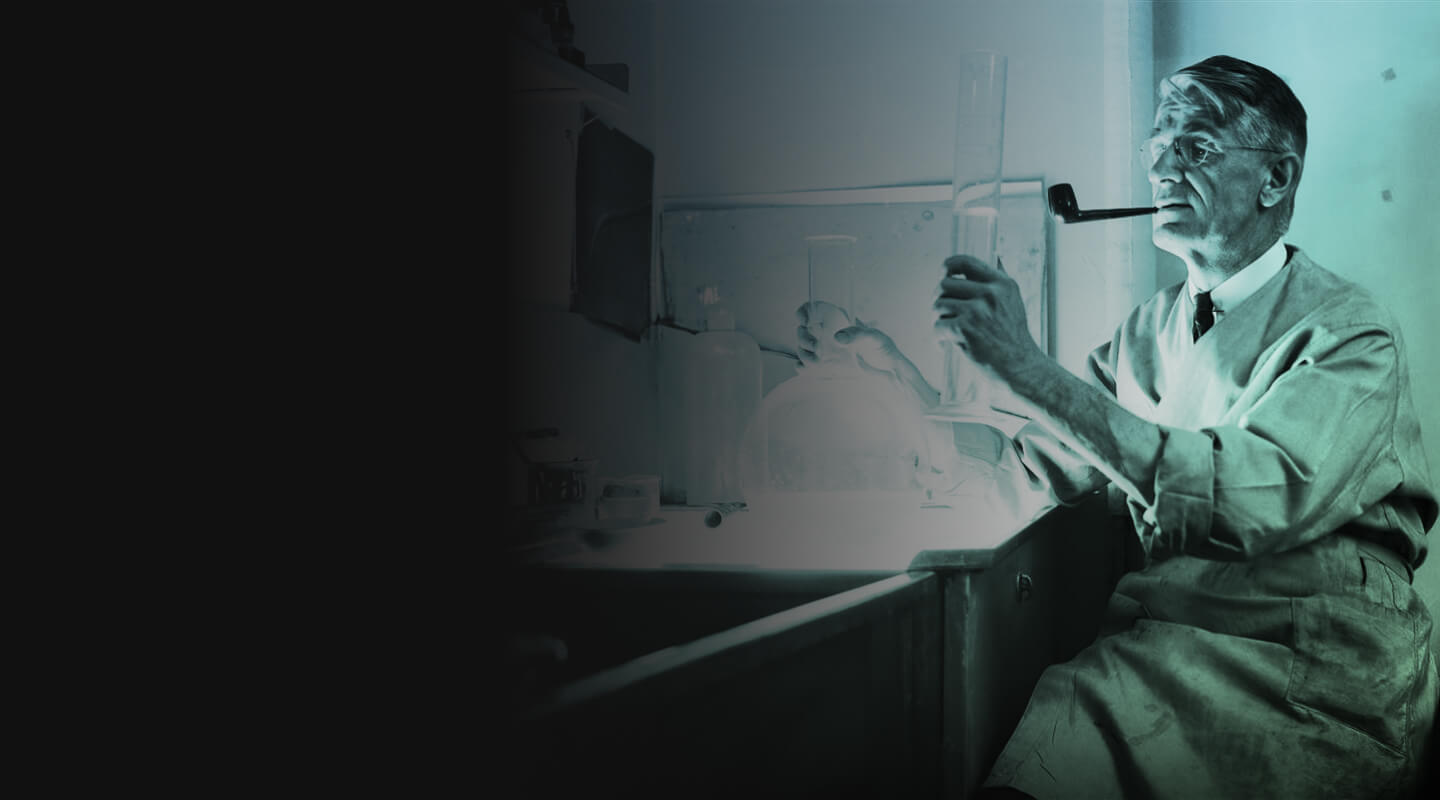
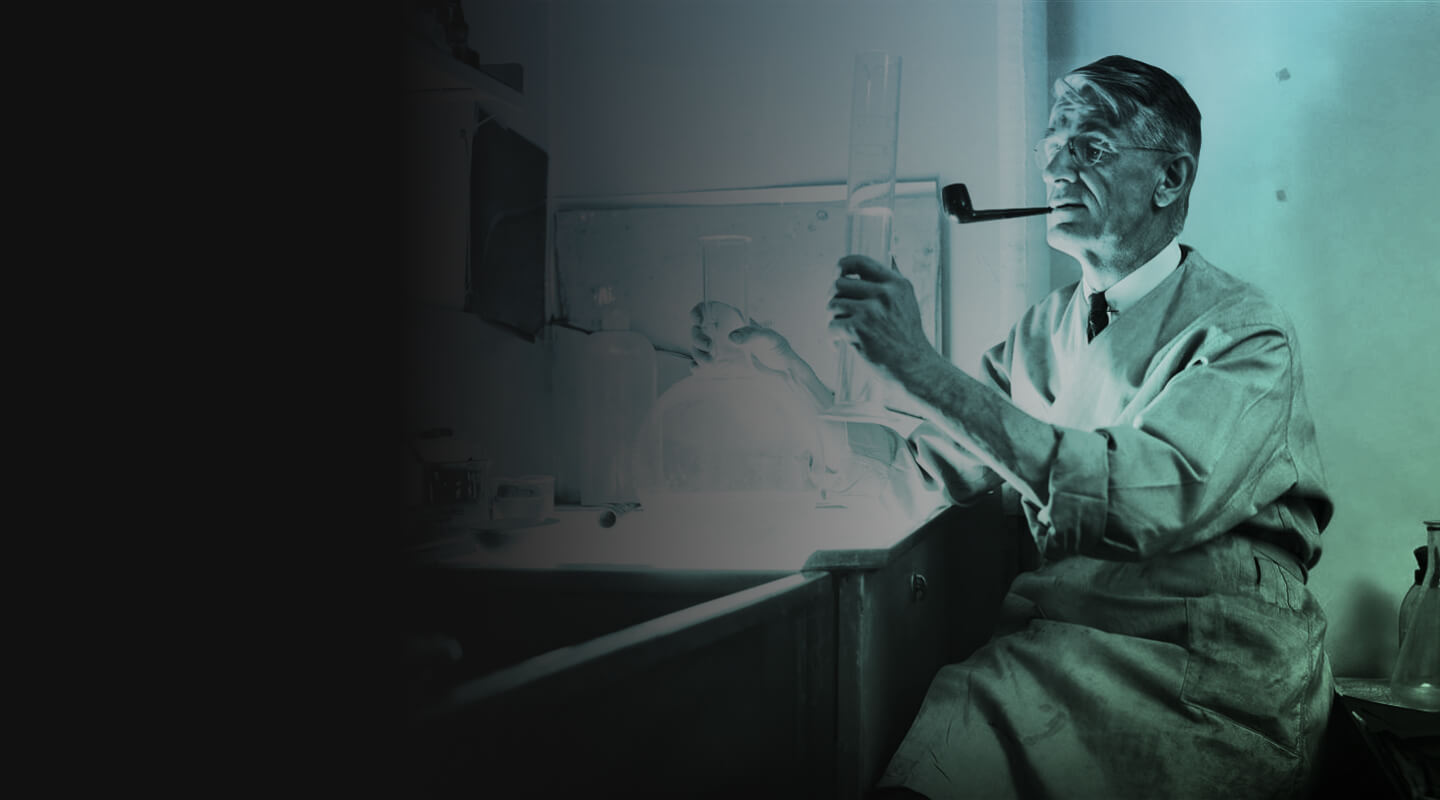
changes based on feedback

diff --git a/src/pages/people/People.jsx b/src/pages/people/People.jsx
@@ -52,9 +52,9 @@ class People extends React.Component {
           <div className={classes.container}>
             <GridContainer>
               <GridItem xs={12} sm={8} md={7} lg={7} xl={7} style = {{marginBottom: "50px"}}>
-                <h1 className={classes.title}>Our team won't stop until mission accomplished.</h1>
+                <h1 className={classes.title}>Our team lives the mission every day.</h1>
                 <p>
-                  <b>VANNEVAR LABS</b> brings together a multi-disciplinary task force with a wide range of experiences, over X years of military service, engineers from some of the top tech startups, and a passion for delivering mission critical tools that protect our country from worldwide threats. [A line here, something about the type of folks we’re looking for or just something about overall apply to our company, etc....]
+                  <b>VANNEVAR LABS</b> brings together a multi-disciplinary group of people with a wide range of experiences, over 40 years of military service, engineers from some of the top tech companies and startups, and a passion for delivering mission critical tools to support public servants on the frontlines of the country's most important national security problems.
                 </p>
                 <Button
                   color="info"
@@ -207,10 +207,10 @@ class People extends React.Component {
         <div id="bio-holder">
         <div className={classes.container}>
             <GridContainer style = {{justifyContent: "center"}}>
-            <GridItem className="bio" xs={12} sm={6} md={6} lg={4} xl={4} style = {{textAlign: "center", lineHeight: "40px"}}>
+            <GridItem className="bio" xs={12} sm={6} md={6} lg={4} xl={4} style = {{textAlign: "center"}}>
             <img defer src={culture} alt="..." />
                 <h2>Join our team!</h2>
-                <p>A short message goes here to say hey, look at our open positions before you go.</p>
+                <p>We're building tools to support public servants working on the country’s most important problems.</p>
                 <Button
                   color="info"
                   id="top-button"
@@ -219,7 +219,7 @@ class People extends React.Component {
                   target="_blank"
                   rel="noopener noreferrer"
                 >
-                  Join our team
+                  Learn more
                 </Button>
               </GridItem>
             </GridContainer>

diff --git a/src/assets/scss/core/_misc.scss b/src/assets/scss/core/_misc.scss
@@ -75,7 +75,7 @@ html {
 }
 body {
   background-color: #e5e5e5;
-  color: $black-color;
+  color: #000;
   margin: 0;
   font-size: 1rem;
   text-align: left;
@@ -112,6 +112,7 @@ a {
 
 header a {
   color: white;
+  font-size: 16px;
   text-decoration: none;
   background-color: transparent;
   &:hover,
@@ -351,7 +352,7 @@ form {
 }
 
 #vannevar{
-  background: url("../../assets/img/vannevar.jpg"), rgba(0,0,0,0.3);
+  background: url("../../assets/img/vannevar.jpg"), rgba(0,0,0,.5);
   background-repeat: no-repeat;
   background-size: cover;
   background-position: top right;
@@ -361,6 +362,7 @@ form {
 
 #vannevar p{
   font-size: 18px;
+  font-weight: 400;
   line-height: 32px;
   padding-top: 15px;
   padding-bottom: 15px;
@@ -432,6 +434,10 @@ form {
   object-position: top center;
 }
 
+.bio #top-button{
+  margin-bottom: 50px;
+}
+
 #contact{
   background: url("../../assets/img/nature.jpg"), rgba(0,0,0,0.3);
   background-repeat: no-repeat;
@@ -485,7 +491,7 @@ form {
     background: url("../../assets/img/vannevar.jpg"), rgba(0,0,0,0.6);
     background-repeat: no-repeat;
     background-size: cover;
-    background-position: top right;
+    background-position: top right -150px;
     background-blend-mode: multiply;
   }
 
@@ -558,8 +564,9 @@ form {
     background: url("../../assets/img/vannevar.jpg"), rgba(0,0,0,0.8);
     background-repeat: no-repeat;
     background-size: cover;
-    background-position: top right;
+    background-position: top right -200px;
     background-blend-mode: multiply;
+    min-height: 500px;
   }
 }
 
@@ -637,14 +644,13 @@ div[role=document] a[role=button]{
 
 a[role=button] {
   text-transform: none!important;
-  font-size: 14px;
+  font-size: 16px;
   margin: 20px 0;
 }
 
 #top-button {
   background-color: #68C4FF;
   color: #000!important;
-  margin-bottom: 100px;
 }
 
 #top-button a{

diff --git a/src/pages/LandingPage/Sections/ProductSection.jsx b/src/pages/LandingPage/Sections/ProductSection.jsx
@@ -6,6 +6,7 @@ import GridContainer from "components/Grid/GridContainer.jsx";
 import GridItem from "components/Grid/GridItem.jsx";
 
 import lineart from "assets/img/lineart.png"
+import laser from "assets/img/laser.png"
 
 import {Link} from "gatsby";
 
@@ -18,15 +19,16 @@ class ProductSection extends React.Component {
           <GridItem xs={12} sm={12} md={8} lg={6} xl={6}>
             <div id="decryptLeft">
               <img defer src={lineart} alt="Vannevar Decrypt" />
+              
             </div>
           </GridItem>
           <GridItem xs={12} sm={12} md={4} lg={6} xl={6}>
             <div id="decryptRight">
             <div className="product" justify="center">
           <div className="product-item">
-            <h1 style={{fontFamily:"Saira Semi Condensed", fontWeight: "700"}}>VANNEVAR <span style={{fontWeight:"400"}}>Decrypt</span></h1>
+         <h1 style={{fontFamily:"Saira Semi Condensed", fontWeight: "700"}}>VANNEVAR <span style={{fontWeight:"400"}}>Decrypt</span></h1>
             <h2>
-              A persistent, taskable sensor for foreign text data.
+              A foreign text data workflow platform built for public servants.
             </h2>
             <br/>
             <Button

diff --git a/src/components/Header/HeaderLinks.jsx b/src/components/Header/HeaderLinks.jsx
@@ -31,7 +31,7 @@ function HeaderLinks({ ...props }) {
           className={classes.navLink}
           href="/people"
         >
-          <People className={classes.icons} /><Link to="/people">People</Link>
+          <Link to="/people">People</Link>
         </Button>
       </ListItem>
       <ListItem className={classes.listItem}>
@@ -41,7 +41,7 @@ function HeaderLinks({ ...props }) {
           color="transparent"
           className={classes.navLink}
         >
-          <Work className={classes.icons} /> Careers
+          Careers
         </Button>
       </ListItem>
       <ListItem className={classes.listItem}>
@@ -50,7 +50,7 @@ function HeaderLinks({ ...props }) {
           className={classes.navLink}
           href="/contact"
         >
-          <EmailIcon className={classes.icons} /> <Link to="/contact">Contact</Link>
+          <Link to="/contact">Contact</Link>
         </Button>
       </ListItem>
       
